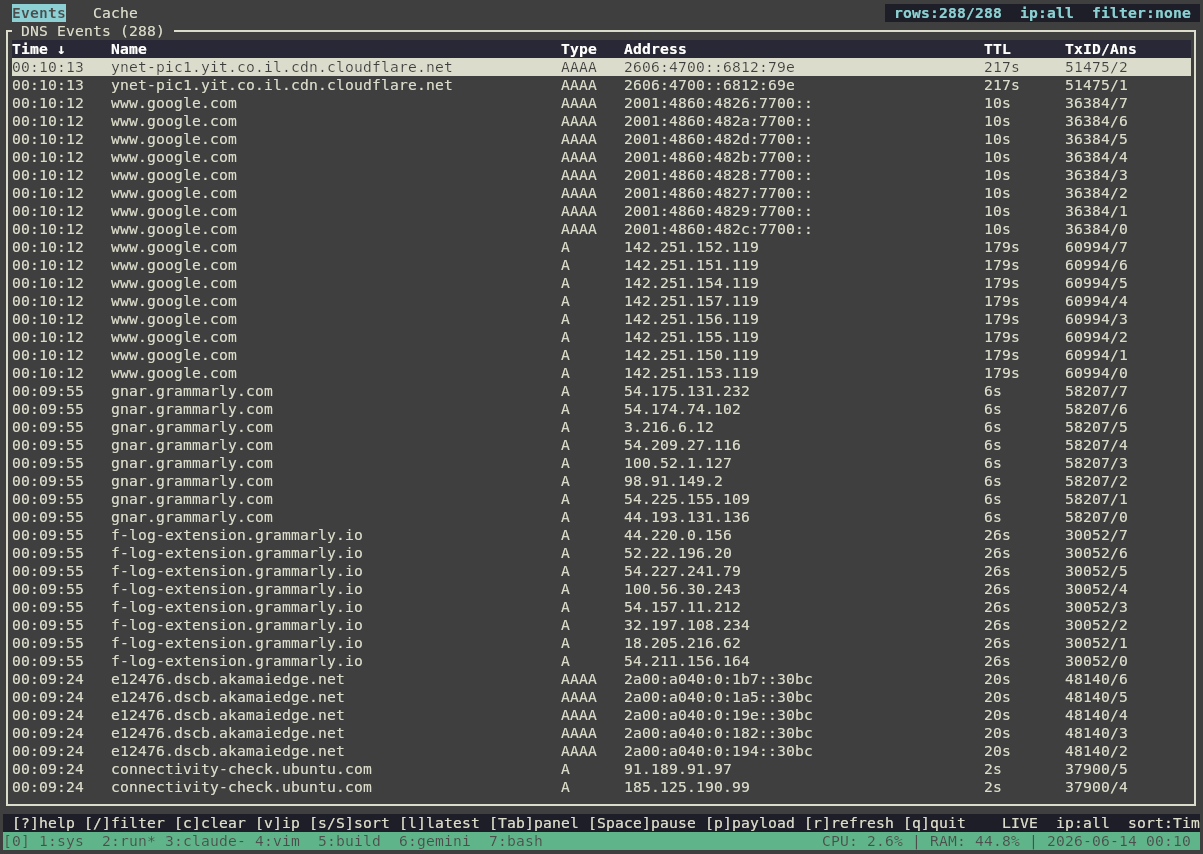
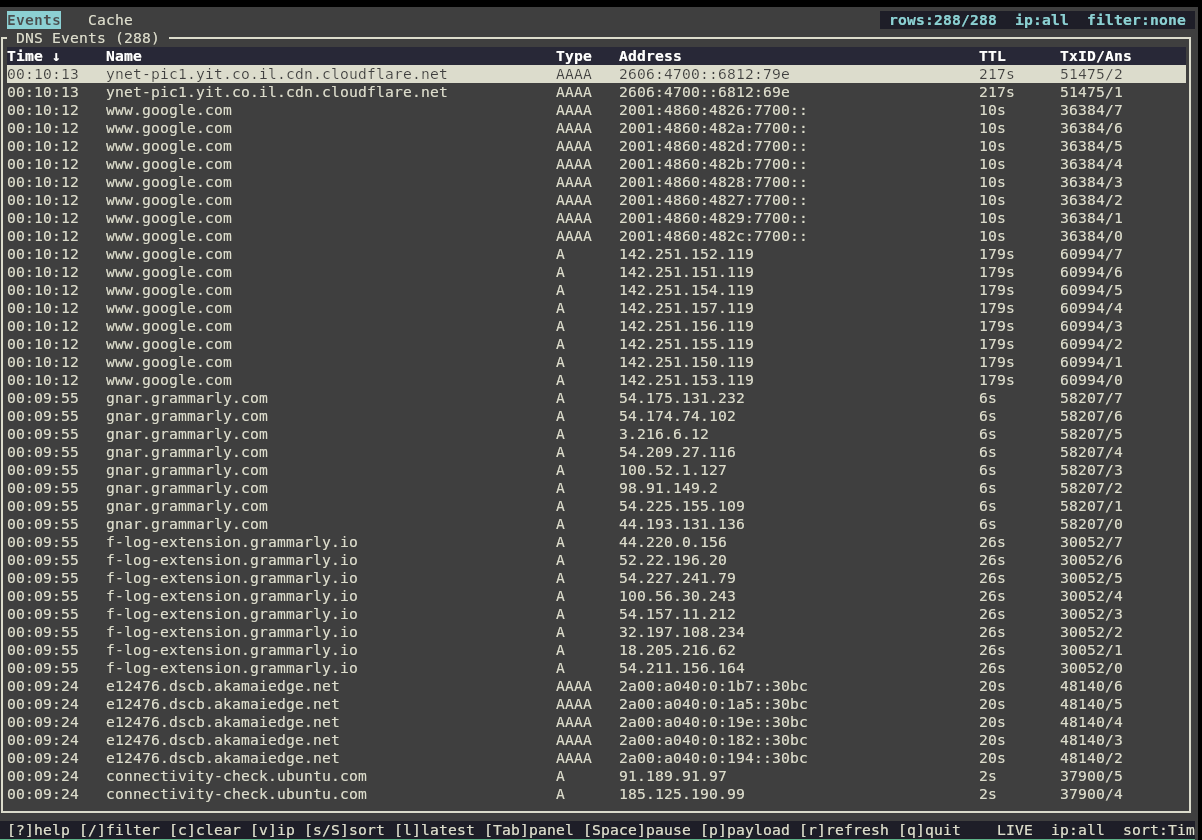
Rename from "loader" to "ebpf-dns-cache"

Changed region(s): [[0.0, 0.0, 1.0, 1.0]]

diff --git a/src/tests.rs b/src/tests.rs
@@ -1,14 +1,14 @@
 //! Unit tests for the XDP DNS parser, driven through BPF_PROG_TEST_RUN.
 //!
 //! These tests load the real BPF object, populate the tail-call `jmp_table`
-//! exactly like the loader does, feed crafted packets into `xdp_dns_ingress`
+//! exactly like the main binary does, feed crafted packets into `xdp_dns_ingress`
 //! via `Program::test_run`, and assert on the resulting parser state.
 //!
 //! Loading and running BPF programs requires privileges (CAP_BPF /
 //! CAP_SYS_ADMIN), so this suite must be run as root, e.g.:
 //!
 //!     cargo test --no-run
-//!     sudo target/debug/deps/loader-<hash> --test-threads=1
+//!     sudo target/debug/deps/ebpf_dns_cache-<hash> --test-threads=1
 
 use std::cell::RefCell;
 use std::collections::VecDeque;
@@ -246,7 +246,7 @@ impl Harness {
     }
 
     /// Open + load the skeleton and wire the tail-call jump table, mirroring
-    /// the loader in `main.rs`. Returns the loaded skeleton.
+    /// the main binary in `main.rs`. Returns the loaded skeleton.
     fn load(&mut self) -> DnsParserSkel<'_> {
         let builder = DnsParserSkelBuilder::default();
         let mut open_skel = builder.open(&mut self.obj).expect("open skeleton");

diff --git a/src/tui.rs b/src/tui.rs
@@ -1,4 +1,4 @@
-//! Interactive terminal UI for the DNS cache (`loader --tui <iface>`).
+//! Interactive terminal UI for the DNS cache (`ebpf-dns-cache --tui <iface>`).
 //!
 //! A single background "BPF worker" thread owns the loaded skeleton, attaches
 //! XDP, polls the `events` / `dns_capture_rb` ring buffers, and periodically

diff --git a/README.md b/README.md
@@ -141,7 +141,7 @@ make vmlinux
 # Compile the BPF C code and generate the Rust skeleton
 make skel
 
-# Build the Rust loader (debug)
+# Build the Rust binary (debug)
 make build
 
 # Build optimized
@@ -157,9 +157,9 @@ make test-one TEST=parses_multi_label_fqdn
 ## Usage
 
 ```bash
-sudo ./target/debug/loader [-v] [--payload] [--dump-cache | --tui] <interface>
+sudo ./target/debug/ebpf-dns-cache [-v] [--payload] [--dump-cache | --tui] <interface>
 # e.g.
-sudo ./target/debug/loader eth0
+sudo ./target/debug/ebpf-dns-cache eth0
 ```
 
 - `-v` enables verbose BPF debug logging.
@@ -170,10 +170,10 @@ sudo ./target/debug/loader eth0
 Example output:
 
 ```
-INFO [loader] attached xdp_dns_ingress to eth0 (ifindex=2). Ctrl-C to detach.
-INFO [loader] [txid=9174 answer=0] api.example.com A 93.184.216.34
-INFO [loader] [txid=9174 answer=1] api.example.com A 93.184.216.35
-INFO [loader] [txid=2976 answer=0] connectivity-check.ubuntu.com AAAA 2620:2d:4000:1::17
+INFO [ebpf_dns_cache] attached xdp_dns_ingress to eth0 (ifindex=2). Ctrl-C to detach.
+INFO [ebpf_dns_cache] [txid=9174 answer=0] api.example.com A 93.184.216.34
+INFO [ebpf_dns_cache] [txid=9174 answer=1] api.example.com A 93.184.216.35
+INFO [ebpf_dns_cache] [txid=2976 answer=0] connectivity-check.ubuntu.com AAAA 2620:2d:4000:1::17
 ```
 
 Structured logs go to `dns-cache_YYYY-MM-DD_HH-MM-SS.log`. Raw DNS payloads (for debugging or test generation) are written to `payloads.json` only when `--payload` is passed.
@@ -183,14 +183,14 @@ Structured logs go to `dns-cache_YYYY-MM-DD_HH-MM-SS.log`. Raw DNS payloads (for
 While an instance is attached and observing traffic, it populates the pinned `dns_reverse` map (see [Reverse cache](#reverse-cache-address--name)). A second invocation with `--dump-cache` reopens that same pinned map, prints every live (non-expired) `address → name` entry, and exits without attaching:
 
 ```bash
-sudo ./target/debug/loader --dump-cache
+sudo ./target/debug/ebpf-dns-cache --dump-cache
 ```
 
 ```
-INFO [loader] reverse DNS cache (address -> name):
-INFO [loader]   93.184.216.34 -> api.example.com (ttl=300s, age=12s)
-INFO [loader]   2620:2d:4000:1::17 -> connectivity-check.ubuntu.com (ttl=60s, age=4s)
-INFO [loader] 2 live entries
+INFO [ebpf_dns_cache] reverse DNS cache (address -> name):
+INFO [ebpf_dns_cache]   93.184.216.34 -> api.example.com (ttl=300s, age=12s)
+INFO [ebpf_dns_cache]   2620:2d:4000:1::17 -> connectivity-check.ubuntu.com (ttl=60s, age=4s)
+INFO [ebpf_dns_cache] 2 live entries
 ```
 
 Entries whose age exceeds their TTL are skipped (treated as a miss), so the dump reflects only currently-valid mappings.